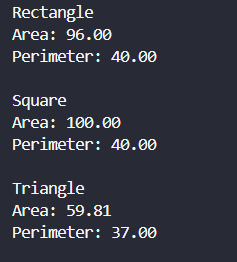
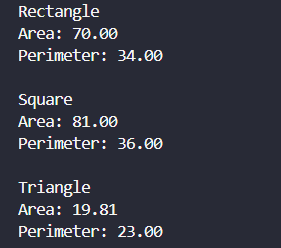
update

diff --git a/Laboratory Activities/Laboratory Activity 4 - 28-11-2024/Main.java b/Laboratory Activities/Laboratory Activity 4 - 28-11-2024/Main.java
@@ -1,10 +1,8 @@
-
-
 public class Main {
   public static void main(String[] args) {
-    Rectangle rectangle = new Rectangle(8, 12);
-    Square square = new Square(10);
-    Triangle triangle = new Triangle(10, 12, 15);
+    Rectangle rectangle = new Rectangle(7, 10);
+    Square square = new Square(9);
+    Triangle triangle = new Triangle(5, 8, 10);
 
     Shape[] shapes = { rectangle, square, triangle };
     ShapeCollection shapeCollection = new ShapeCollection(shapes);
